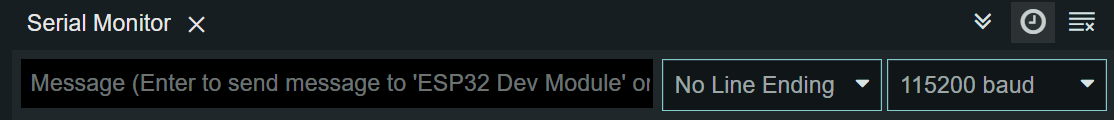
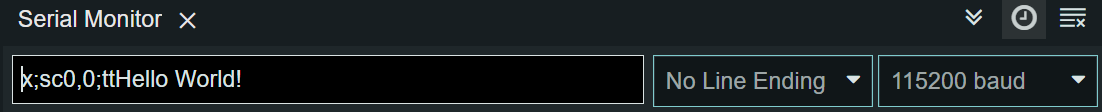
doc

Changed region(s): [[0.0, 0.4821, 1.0, 0.9643], [0.0, 0.0804, 0.1851, 0.2679], [0.8639, 0.0536, 0.9873, 0.2946]]

diff --git a/README.md b/README.md
@@ -4,7 +4,7 @@
 ### Tutorial
 
 ### Usage
-In the serial monitor type x;ttHello World!<br>
+In the serial monitor type x;sc0,0,ttHello World!<br>
 And click enter, the command will be send to your microcontroller, the screen of your display should clear and show Hello World!<br>
 Make sure you choose No Line Ending the the menu to the right:<br>
 ![Usage](https://github.com/thelastoutpostworkshop/DisplayPrototyping/blob/main/images/Usage.png)
